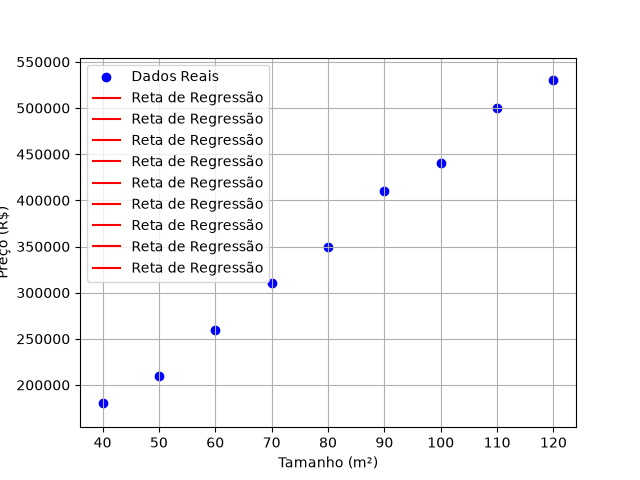
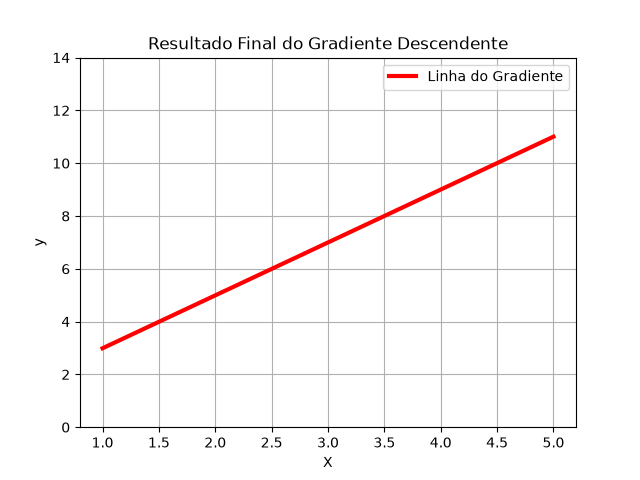
Add files via upload

diff --git a/gradient.py b/gradient.py
@@ -1,0 +1,42 @@
+import numpy as np 
+import matplotlib.pyplot as plt
+
+X = np.array([1, 2, 3, 4, 5])
+y = np.array([3, 5, 7, 9, 11])
+b = 0.0
+w = 0.0
+alpha = 0.01
+repetição = 1000
+
+n = float(len(X))
+
+
+for i in range (repetição):
+    y_pred = w * X + b
+    custo = (1/n) * sum((y-y_pred)**2)
+
+    dw = (-2/n) * sum(X*(y-y_pred))
+    db = (-2/n) * sum((y-y_pred))
+
+
+    w = w - alpha * dw
+    b = b - alpha * db
+
+    if i % 100 == 0:
+        print(f"Época {i}: Custo = {custo:.2f} | w = {w:.2f}, b = {b:.2f}")
+
+print(f"\nValores finais após o treino -> w: {w:.2f}, b: {b:.2f}")
+
+
+plt.plot(X, y_pred, color="red", linewidth=3, label="Linha do Gradiente")
+
+# Customização do gráfico
+plt.title("Resultado Final do Gradiente Descendente")
+plt.xlabel("X")
+plt.ylabel("y")
+plt.ylim(0, 14)
+plt.legend()
+plt.grid(True)
+
+# Abre a janela do Matplotlib na tela
+plt.show()
